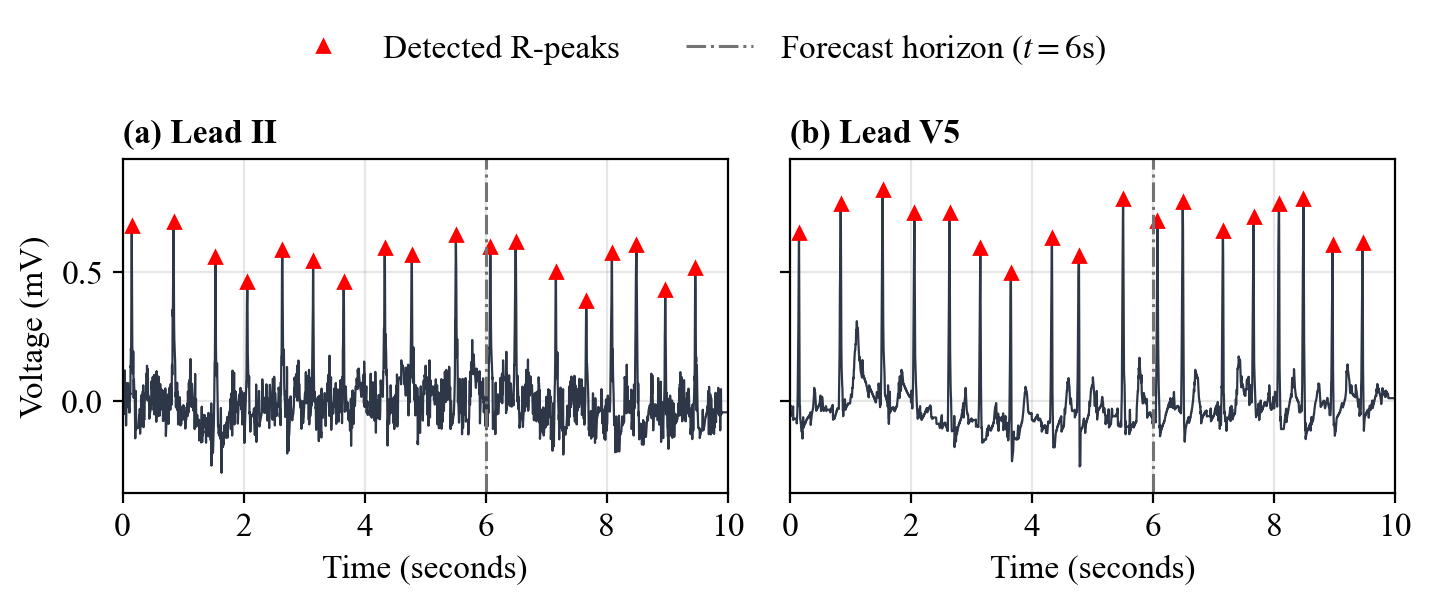
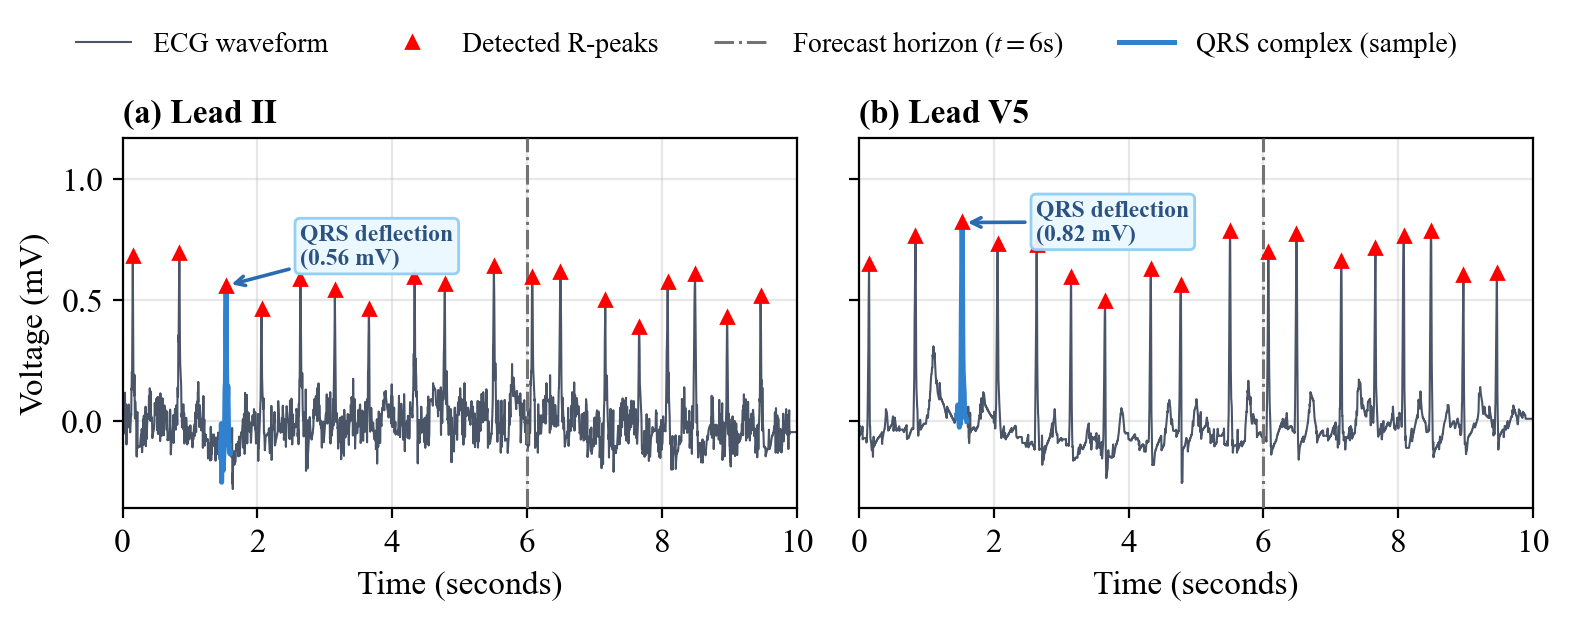
Added peak distinctions between Lead II and Lead V5

diff --git a/papers/pavan_govindaraju/scripts/ptbxl_ecg.py b/papers/pavan_govindaraju/scripts/ptbxl_ecg.py
@@ -285,9 +285,32 @@ def _panel_label(ax, text):
 
 
 def plot_raw_panel(ax, result, ylabel=True, xlabel=True, legend=False):
-    ax.plot(result["t_raw"], result["voltage"], color="#2d3748", lw=0.8)
-    ax.plot(result["peak_times"], result["voltage"][result["peaks"]], "r^", markersize=4.0, label="Detected R-peaks")
-    ax.axvline(TRAIN_END_S, color="0.45", linestyle="-.", lw=1.1, label=r"Forecast horizon ($t=6$s)")
+    lead = result["lead"]
+    t_raw = result["t_raw"]
+    volt = result["voltage"]
+    ax.plot(t_raw, volt, color="#4a5568", lw=0.75, label="ECG waveform", zorder=2)
+    ax.plot(result["peak_times"], volt[result["peaks"]], "r^", markersize=4.0, label="Detected R-peaks", zorder=4)
+    ax.axvline(TRAIN_END_S, color="0.45", linestyle="-.", lw=1.1, label=r"Forecast horizon ($t=6$s)", zorder=3)
+
+    # Highlight a representative QRS complex interval (~1.45s to 1.60s) in distinct color
+    qrs_mask = (t_raw >= 1.45) & (t_raw <= 1.60)
+    ax.plot(t_raw[qrs_mask], volt[qrs_mask], color="#3182ce", lw=1.8, label="QRS complex (sample)", zorder=3)
+
+    # Annotation arrow pointing to the R-peak of this QRS complex (placed cleanly inside plot area without title clash)
+    qrs_t = result["peak_times"][2]  # ~ 1.53s
+    qrs_v = volt[result["peaks"][2]]
+    ax.annotate(
+        f"QRS deflection\n({qrs_v:.2f} mV)",
+        xy=(qrs_t, qrs_v),
+        xytext=(qrs_t + 1.1, 0.75 if lead == "V5" else 0.65),
+        arrowprops=dict(arrowstyle="->", color="#2b6cb0", lw=1.3),
+        fontsize=8.5,
+        fontweight="bold",
+        color="#2c5282",
+        bbox=dict(boxstyle="round,pad=0.22", facecolor="#ebf8ff", edgecolor="#90cdf4", alpha=0.95),
+        zorder=5,
+    )
+
     if ylabel:
         ax.set_ylabel("Voltage (mV)", fontsize=12)
     if xlabel:
@@ -296,7 +319,7 @@ def plot_raw_panel(ax, result, ylabel=True, xlabel=True, legend=False):
     ax.tick_params(labelsize=12)
     ax.grid(True, alpha=0.3)
     if legend:
-        ax.legend(loc="upper right", fontsize=12)
+        ax.legend(loc="upper right", fontsize=11)
 
 
 def plot_sde_panel(ax, result, xlabel=True, legend=False):
@@ -383,24 +406,24 @@ def save_combined_figures(results):
     RESULTS_DIR.mkdir(parents=True, exist_ok=True)
     by_lead = {r["lead"]: r for r in results}
 
-    fig_raw, axes_raw = plt.subplots(1, 2, figsize=(7.5, 2.7), sharey=True)
+    fig_raw, axes_raw = plt.subplots(1, 2, figsize=(8.2, 3.2), sharey=True)
     for ax, lead, tag in zip(axes_raw, ("II", "V5"), ("a", "b")):
         plot_raw_panel(ax, by_lead[lead], ylabel=(lead == "II"), legend=False)
         _panel_label(ax, f"({tag}) Lead {lead}")
     vmin = min(by_lead[lead]["voltage"].min() for lead in ("II", "V5"))
     vmax = max(by_lead[lead]["voltage"].max() for lead in ("II", "V5"))
-    axes_raw[0].set_ylim(vmin - 0.08, vmax + 0.12)
+    axes_raw[0].set_ylim(vmin - 0.08, vmax + 0.35)
     handles, labels = axes_raw[0].get_legend_handles_labels()
     fig_raw.legend(
         handles,
         labels,
         loc="upper center",
-        fontsize=12,
-        ncol=2,
+        fontsize=10.0,
+        ncol=4,
         frameon=False,
-        bbox_to_anchor=(0.5, 1.15),
+        bbox_to_anchor=(0.5, 0.99),
     )
-    fig_raw.tight_layout()
+    fig_raw.tight_layout(rect=(0, 0, 1, 0.90))
     out_raw = RESULTS_DIR / COMBINED_RAW
     fig_raw.savefig(out_raw, dpi=200, bbox_inches="tight")
     plt.close(fig_raw)
